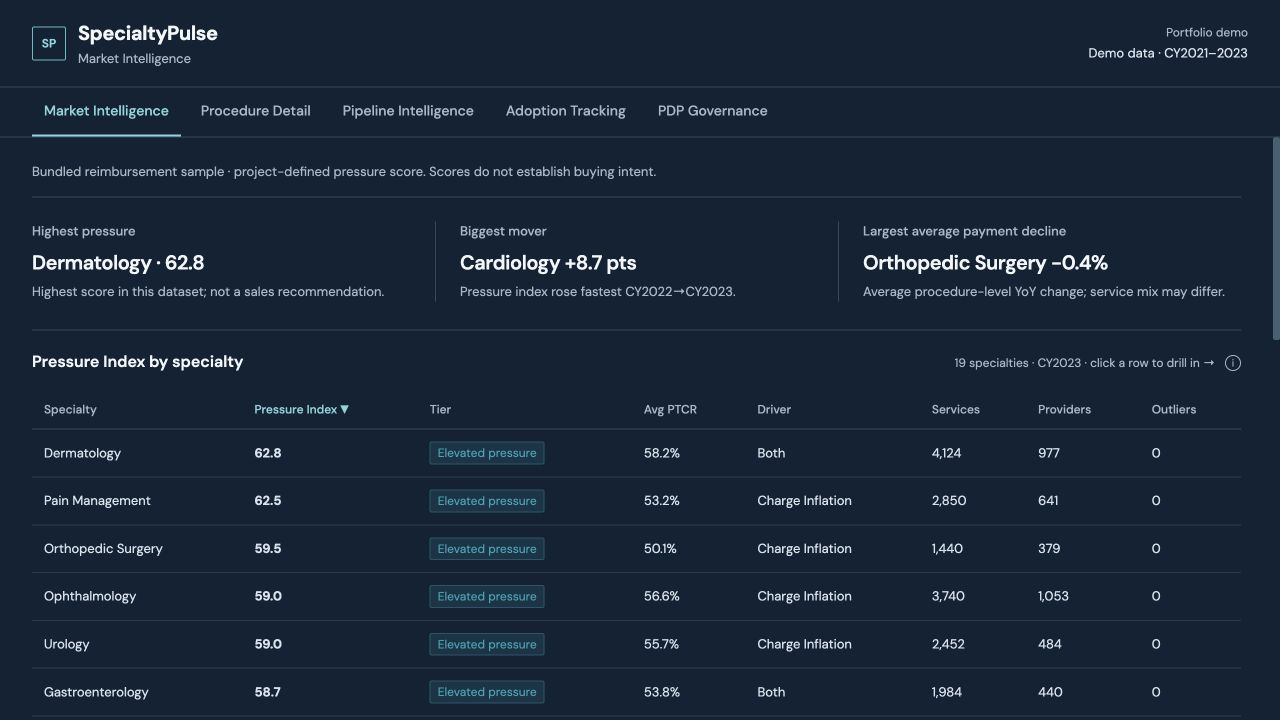
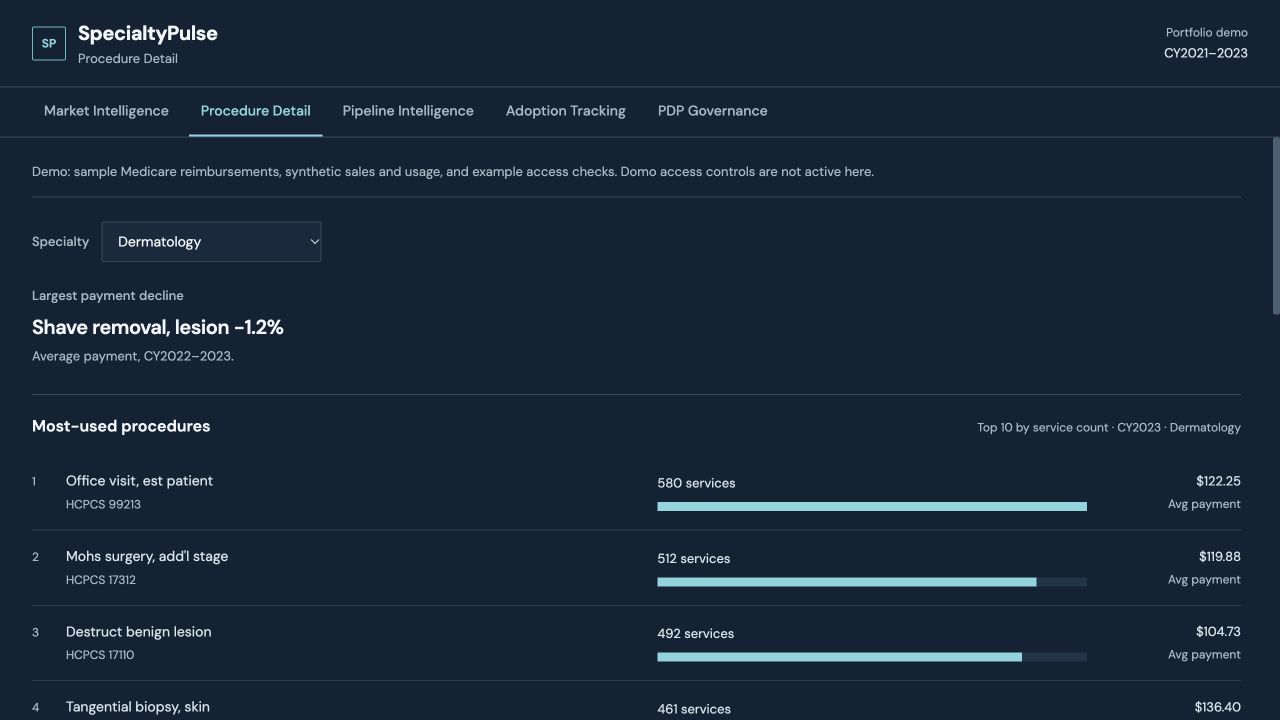
Shorten SpecialtyPulse case study around the demo walkthrough

diff --git a/src/content/work.ts b/src/content/work.ts
@@ -294,7 +294,7 @@ export const projects: Project[] = [
     title: "SpecialtyPulse Pipeline",
     category: "Healthcare Data Platform",
     summary:
-      "A healthcare analytics portfolio project with Databricks and Airflow pipeline code, reimbursement comparisons, and example access policies. The public dashboard uses sample and synthetic data.",
+      "A Medicare reporting pipeline with specialty rankings, procedure drill-downs and example access policies.",
     href: "/work/specialtypulse-pipeline",
     slug: "specialtypulse-pipeline",
     liveHref: "https://specialtypulse.kristenmartino.ai",
@@ -305,7 +305,7 @@ export const projects: Project[] = [
     shape: "pipeline",
     image: "/work/specialtypulse.png",
     imageAlt:
-      "SpecialtyPulse sample dashboard with specialty pressure scores and reimbursement comparisons",
+      "SpecialtyPulse procedure view with a specialty selector, service-count ranking, HCPCS codes and average payments",
     metrics: [
       "CMS PUF schema · sample 2021–2023",
       "Databricks PySpark · Airflow",
